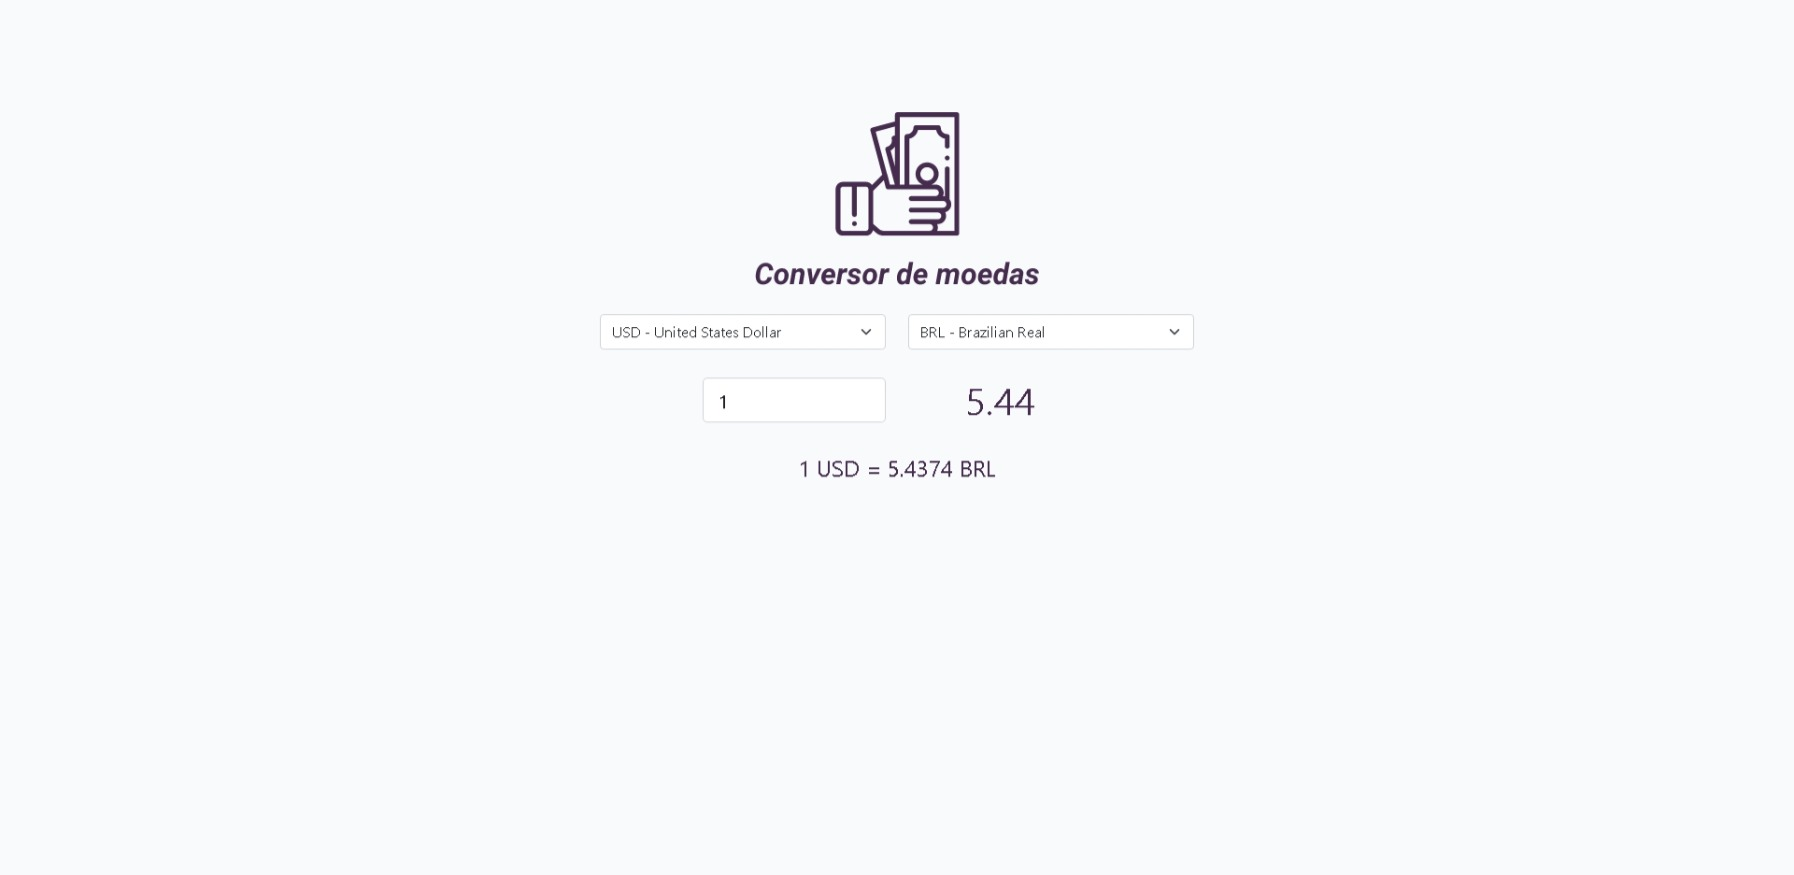
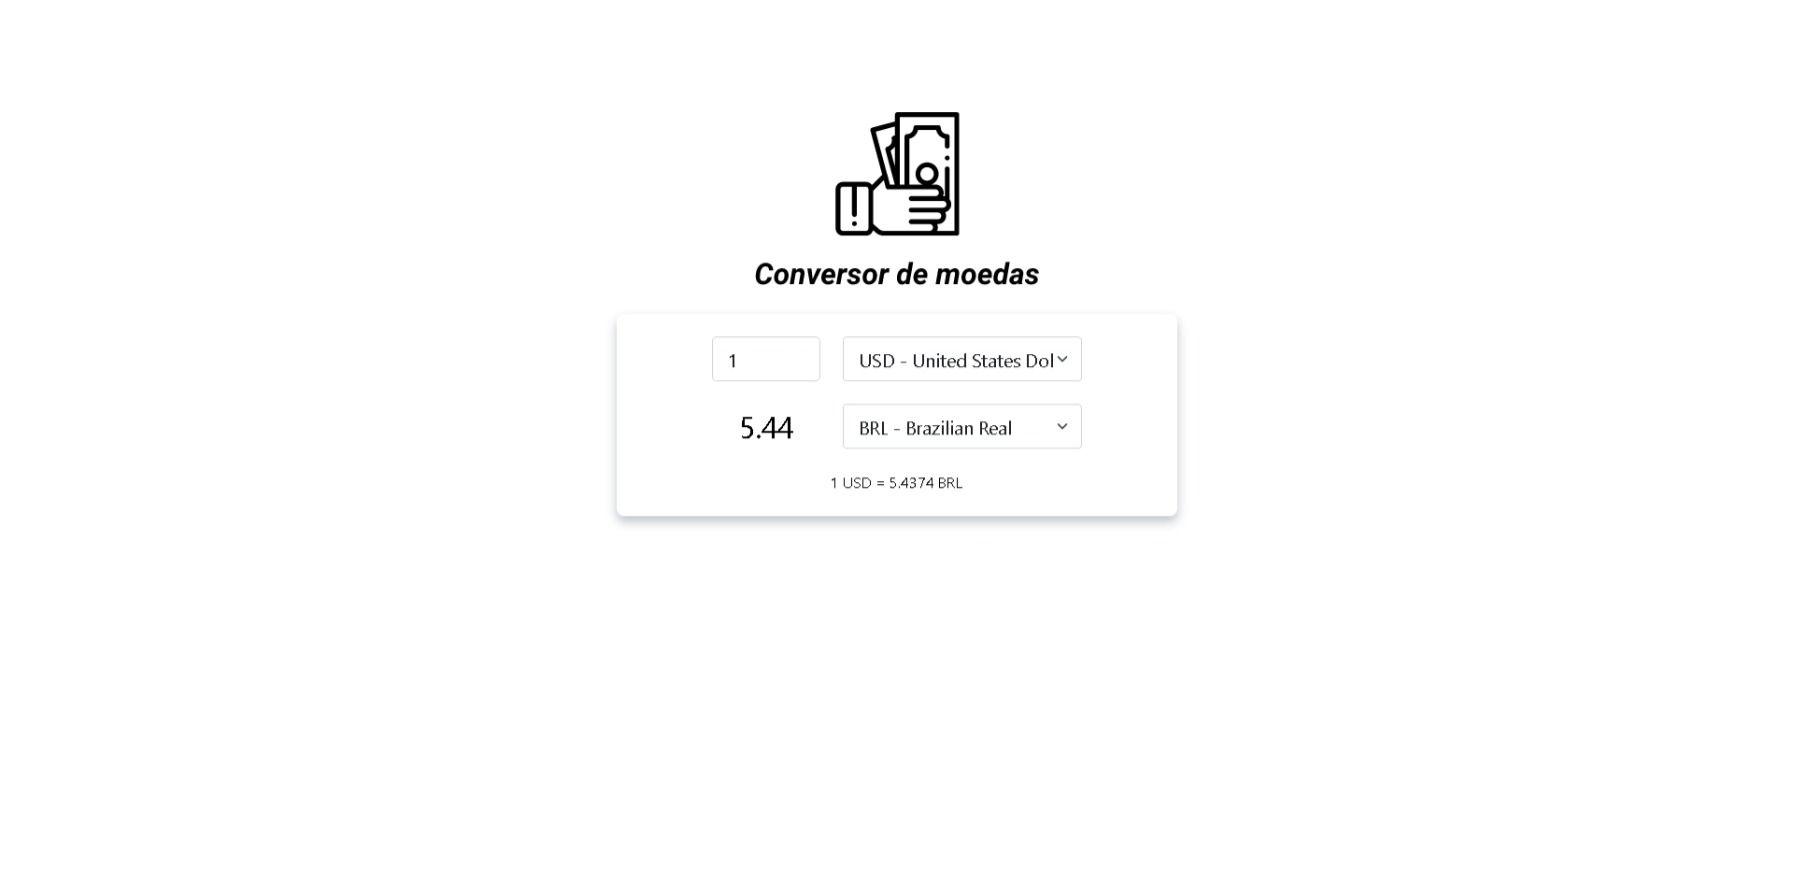
changes in the layout

diff --git a/css/style.css b/css/style.css
@@ -1,15 +1,28 @@
 body {
-  background-color: #F9FAFC;
+  background-color: #fff;
 }
 
 .container {
   padding-top: 7.5rem;
 }
 
+.logo {
+  max-width: 340px;
+}
+
+.box {
+  max-width: 600px;
+  margin: 0 auto;
+  padding: 1.5em 2em;
+  background-color: #fff;
+  box-shadow: rgb(35 55 80 / 30%) 0px 6px 12px;
+  border-radius: 8px;
+}
+
 .converted-value {
-  color: #452B4E;
+  color: #000;
 }
 
 .conversion-precision {
-  color: #452B4E;
+  color: #000;
 }
